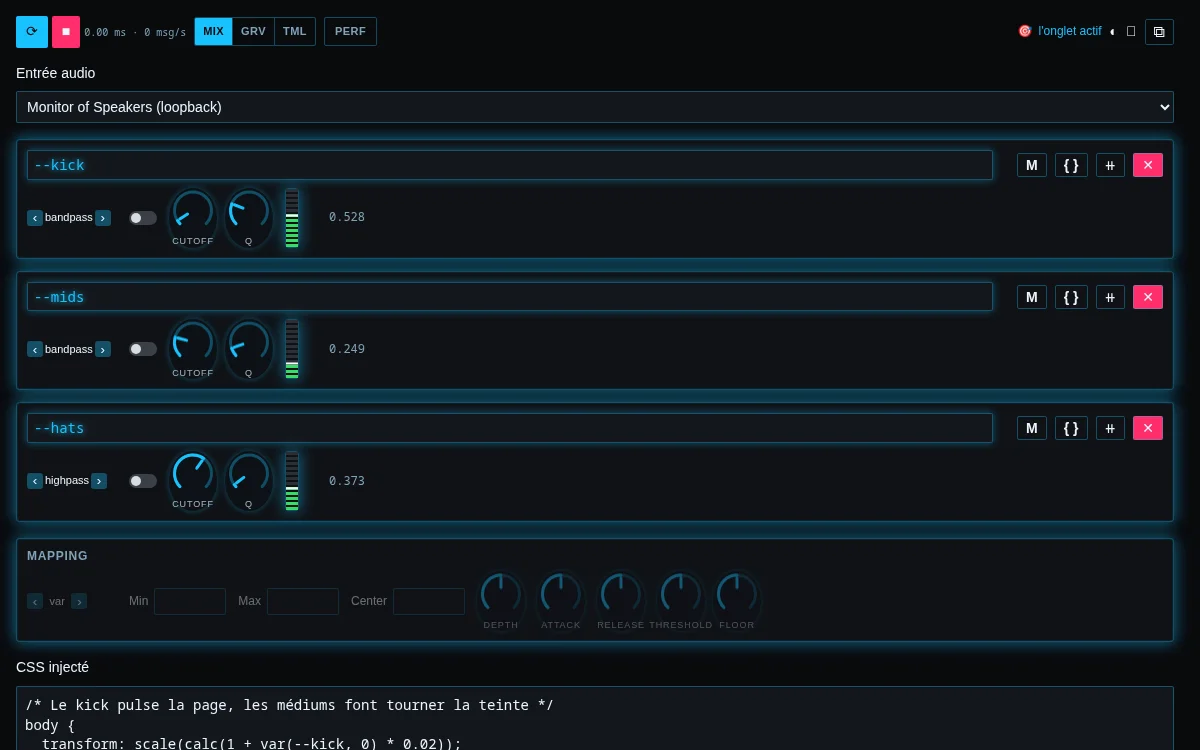
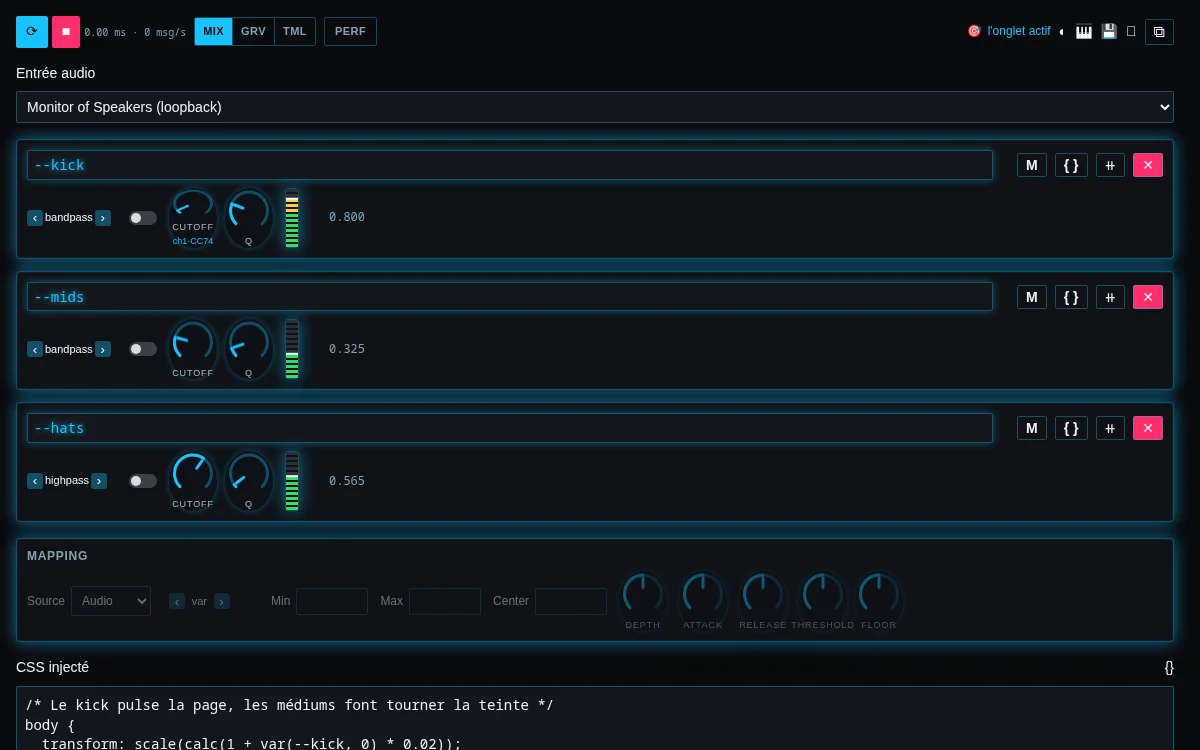
WebGlitch v0.4 : capture fraiche avec badge MIDI, fiche mise a jour (CC learn, presets par site)

diff --git a/index.html b/index.html
@@ -1017,11 +1017,12 @@
         </div>
         <img class="fc-shot" src="shots/webglitch.webp" alt="console WebGlitch en theme neon, trois bandes kick/mids/hats" loading="lazy">
         <div class="fc-title">WebGlitch</div>
-        <div class="fc-desc">Extension navigateur qui fait glitcher les pages avec du son : le loopback pilote des variables CSS en temps reel, comme une console de mixage. 3 vues, 3 themes, mode performance.</div>
+        <div class="fc-desc">Extension navigateur qui fait glitcher les pages avec du son ou un controleur MIDI : loopback et CC pilotent des variables CSS en temps reel. CC learn, presets par site, snippets d'effets.</div>
         <div class="fc-tags">
           <span class="fc-tag">extension</span>
           <span class="fc-tag">Web Audio</span>
           <span class="fc-tag">CSS variables</span>
+          <span class="fc-tag">MIDI</span>
           <span class="fc-tag">VJing</span>
         </div>
         <div class="fc-bottom">
